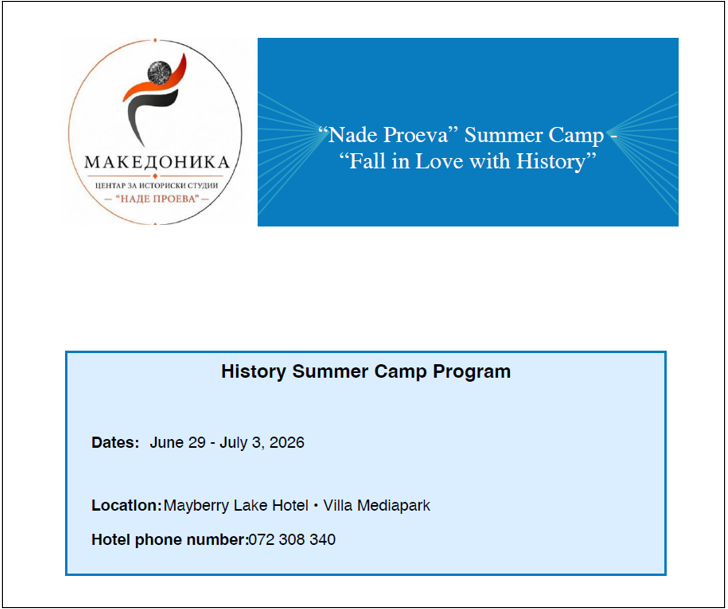
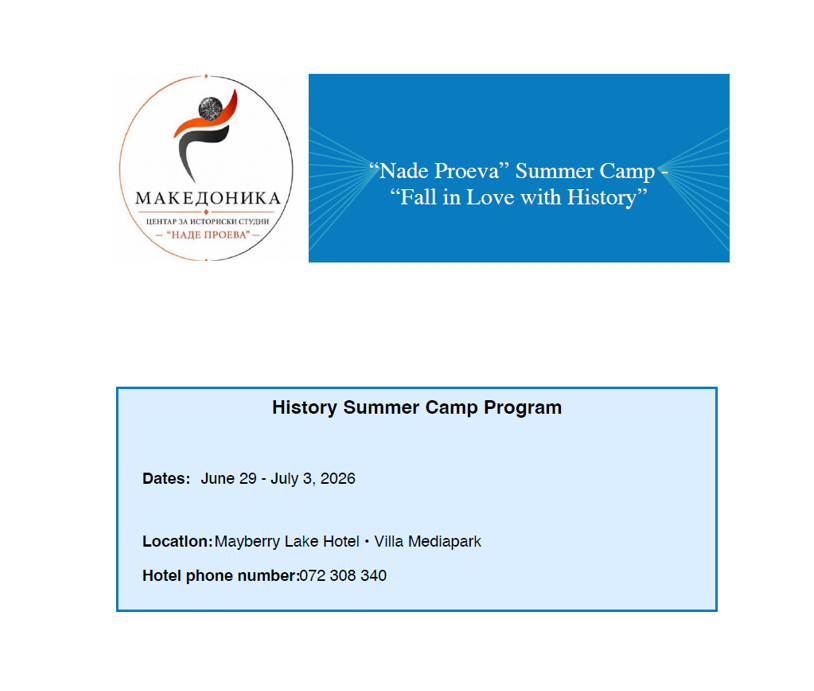
Camp alignments

diff --git a/src/app/summer-camp/camp-content.css b/src/app/summer-camp/camp-content.css
@@ -39,7 +39,7 @@
     position: relative;
     width: 80%;
     margin: auto;
-    aspect-ratio: 16 / 9;
+    aspect-ratio: 13 / 9;
     border-radius: var(--radius);
     background: #0f1620;
     overflow: hidden;
@@ -529,7 +529,6 @@
     background: var(--card);
     border: 0px solid var(--line);
     border-radius: var(--radius);
-    /* padding: 24px; */
     height: 100%;
     justify-content: center;
 }
@@ -601,16 +600,13 @@
         grid-template-columns: 1fr;
         gap: 24px;
     }
-    .ccp-podcast-simple {
-        padding: 16px;
-    }
 }
 
 .ccp-hero-doc-thumb {
     position: relative;
     display: block;
     width: 100%;
-    height: 100%;
+    height: 115%;
     padding: 0;
     border: 2px solid var(--line);
     border-radius: var(--radius);
@@ -621,6 +617,6 @@
 .ccp-hero-doc-thumb img {
     width: 100%;
     height: 100%;
-    object-fit: cover;
+    object-fit: fill;
     display: block;
 }
